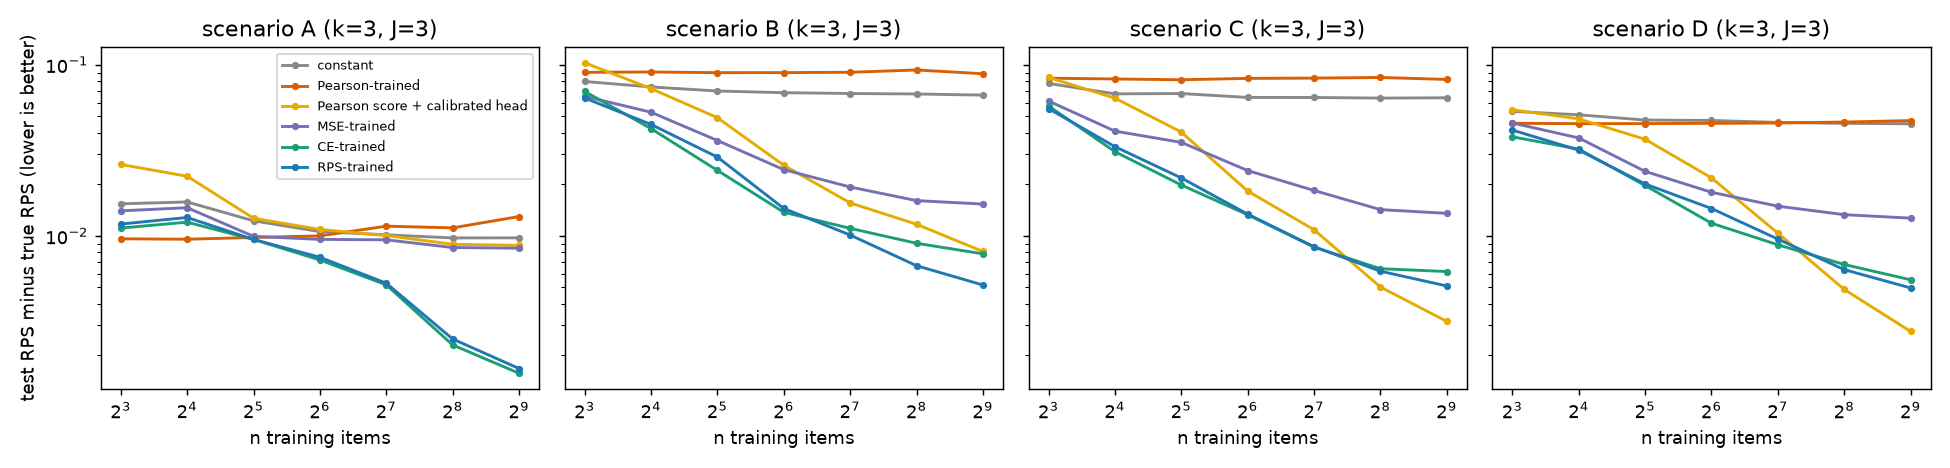
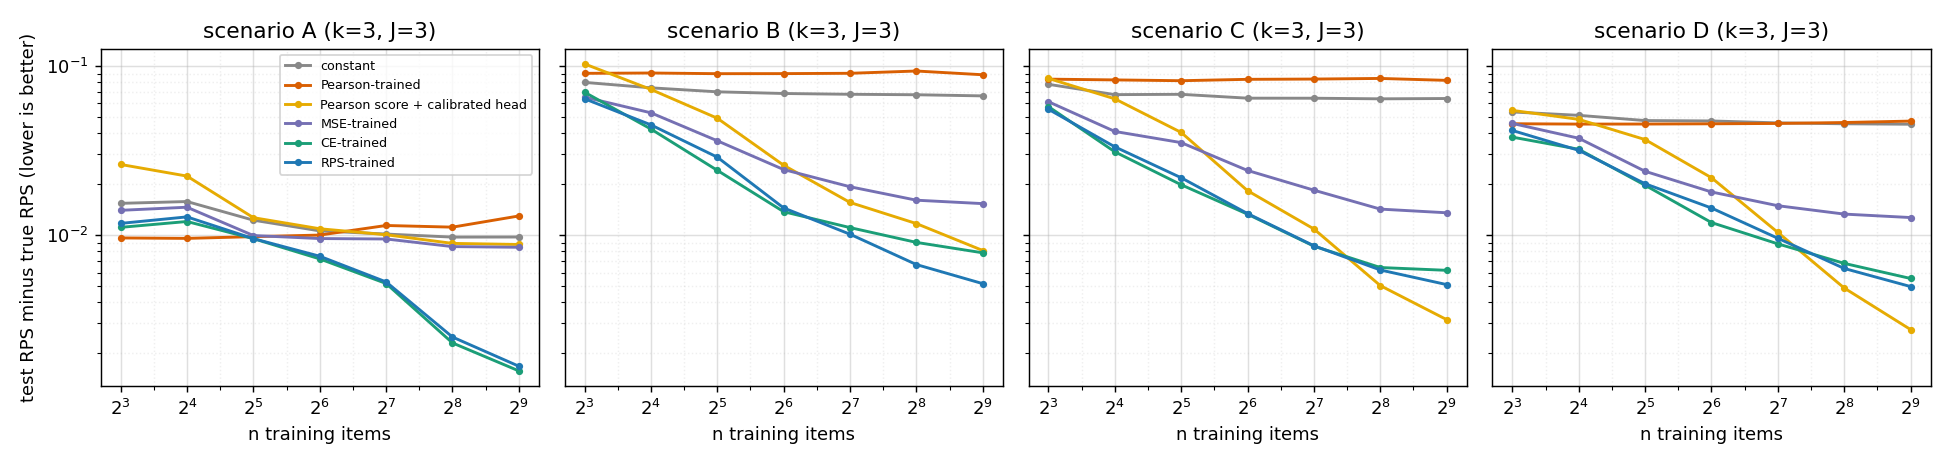
Enable explicit Matplotlib grids and show minor lines on base-two learning curves

diff --git a/experiments/18_when_does_ce_beat_correlation_notebook_page_math_and_sweep_start_21Nov2026/sweep/scripts/plot_A.py b/experiments/18_when_does_ce_beat_correlation_notebook_page_math_and_sweep_start_21Nov2026/sweep/scripts/plot_A.py
@@ -1,6 +1,7 @@
 """Exp 18 figure: test RPS excess (over the true-distribution RPS) vs n, sweep A, k=3, J=3, 4 scenarios. Date 11-21-2026."""
 import csv, sys, numpy as np
 import matplotlib; matplotlib.use("Agg"); import matplotlib.pyplot as plt
+from matplotlib.ticker import LogLocator, NullFormatter
 R = list(csv.DictReader(open(sys.argv[1])))
 arms = [("constant", "constant", "#888888"), ("pearson_raw", "Pearson-trained", "#d95f02"), ("pearson_head_tuned", "Pearson score + calibrated head", "#e6ab02"),
         ("mse_tuned", "MSE-trained", "#7570b3"), ("ce_tuned", "CE-trained", "#1b9e77"), ("rps_tuned", "RPS-trained", "#1f78b4")]
@@ -11,5 +12,10 @@ for a_, s in zip(ax, "ABCD"):
         y = [np.mean([float(r[f"{arm}.rps"]) - float(r["true_rps"]) for r in R if r["scenario"] == s and int(r["n"]) == n and r["k"] == "3" and r["J"] == "3"]) for n in ns]
         a_.plot(ns, y, marker="o", ms=3, lw=1.6, label=lab, color=col)
     a_.set_xscale("log", base=2); a_.set_yscale("log"); a_.set_title(f"scenario {s} (k=3, J=3)"); a_.set_xlabel("n training items")
+    a_.xaxis.set_minor_locator(LogLocator(base=2, subs=[np.sqrt(2)]))
+    a_.xaxis.set_minor_formatter(NullFormatter())
+    a_.set_axisbelow(True)
+    a_.grid(True, which="major", alpha=0.4)
+    a_.grid(True, which="minor", linestyle=":", alpha=0.2)
 ax[0].set_ylabel("test RPS minus true RPS (lower is better)"); ax[0].legend(fontsize=7)
 fig.tight_layout(); fig.savefig(sys.argv[2], dpi=130)

diff --git a/experiments/18_when_does_ce_beat_correlation_notebook_page_math_and_sweep_start_21Nov2026/reconcile_single_judge_selection_21Nov2026/mk_tables.py b/experiments/18_when_does_ce_beat_correlation_notebook_page_math_and_sweep_start_21Nov2026/reconcile_single_judge_selection_21Nov2026/mk_tables.py
@@ -19,7 +19,7 @@ for a_, (proto, unit) in zip(ax, [('C', 'training families'), ('M', 'training ta
     for pn in ['N15', 'N15s3', 'N15+H44', 'H44', 'H5']:
         cs = sorted([c for c in cells if c['pool'] == pn and c['proto'] == proto and c['k'] == 1], key=lambda c: c['n_train_units'])
         a_.plot([c['n_train_units'] for c in cs], [c['pearson_minus_ce'] for c in cs], marker='o', color=col[pn], label=pn)
-    a_.axhline(0, color='k', lw=.8); a_.set_xlabel(unit + (' (Codex splits)' if proto == 'C' else ' (real_n_sweep splits)')); a_.grid(alpha=.3)
+    a_.axhline(0, color='k', lw=.8); a_.set_xlabel(unit + (' (Codex splits)' if proto == 'C' else ' (real_n_sweep splits)')); a_.grid(True, alpha=.3)
 ax[0].set_ylabel('Pearson-selected minus CE-selected test RPS\n(positive = CE better), 1 rating per artifact')
 ax[0].legend(fontsize=8); fig.suptitle('Single-judge selection, same data: the sign follows the judge pool, not the split protocol (11-21-2026)', fontsize=10)
 fig.tight_layout(); fig.savefig('fig_reconcile.png', dpi=140)

diff --git a/experiments/19_small_data_moment_recovery_open_and_closed_judges_start_21Nov2026/human_judges/report.py b/experiments/19_small_data_moment_recovery_open_and_closed_judges_start_21Nov2026/human_judges/report.py
@@ -72,7 +72,7 @@ for axis,key in zip(axes,pool):
             axis.plot([lo,hi],[i+offset,i+offset],color=color,lw=2)
             axis.plot(d,i+offset,marker=symbol,color=color,label=('Training constant' if base=='constant' else 'Original forecast') if i==0 else None)
     axis.set_title(groups[key]);axis.set_xlabel("Held-out test squared moment loss\nCE-fitted minus reference")
-    axis.axvline(0,lw=1,color='#555');axis.grid(alpha=.23);axis.set_axisbelow(True)
+    axis.axvline(0,lw=1,color='#555');axis.grid(True, alpha=.23);axis.set_axisbelow(True)
 axes[0].set_yticks(range(len(metrics)),metric_names);axes[0].invert_yaxis();axes[0].legend(fontsize=8,title="Reference",loc='upper left')
 fig.suptitle('What did calibration with one rating per artifact add?',fontsize=14)
 fig.text(.5,.08,'Three training families, 12.1 ratings on average. Negative favors the cross-entropy (CE) fit. Raw ratings are divided by five.\n'

diff --git a/experiments/21_fresh_task_families_matched_open_closed_judges_start_21Nov2026/short_answers/plot.py b/experiments/21_fresh_task_families_matched_open_closed_judges_start_21Nov2026/short_answers/plot.py
@@ -5,7 +5,7 @@ from pathlib import Path
 import matplotlib
 matplotlib.use("Agg")
 import matplotlib.pyplot as plt
-from matplotlib.ticker import FormatStrFormatter
+from matplotlib.ticker import FormatStrFormatter, LogLocator, NullFormatter
 import numpy as np
 
 ROOT = Path(__file__).resolve().parent
@@ -39,6 +39,8 @@ for j, (judge, title) in enumerate((("qwen","Qwen3.5-9B (open weights)"),("claud
     bottom.set_xscale("log",base=2);bottom.set_xticks(x, labels=[str(k) for k in x])
     for ax in (top,bottom):
         ax.minorticks_on()
+        ax.xaxis.set_minor_locator(LogLocator(base=2, subs=[np.sqrt(2)]))
+        ax.xaxis.set_minor_formatter(NullFormatter())
         ax.grid(True,which="major",color="#d4d8d9",lw=.65)
         ax.grid(True,which="minor",color="#e6e8e8",lw=.35,alpha=.65)
         ax.set_axisbelow(True)

diff --git a/experiments/18_when_does_ce_beat_correlation_notebook_page_math_and_sweep_start_21Nov2026/conditional_shape_and_rating_budget/historical_rating_budget/report.py b/experiments/18_when_does_ce_beat_correlation_notebook_page_math_and_sweep_start_21Nov2026/conditional_shape_and_rating_budget/historical_rating_budget/report.py
@@ -24,7 +24,7 @@ axis.invert_yaxis()
 axis.set_ylabel("Training families and\nratings per artifact")
 axis.set_xlabel("Held-out normalized ranked probability score (RPS)\n"
                 "Pearson-selected judge minus cross-entropy-selected judge")
-axis.grid(axis="both", color="#ddddda", lw=0.65)
+axis.grid(True, axis="both", color="#ddddda", lw=0.65)
 axis.set_axisbelow(True)
 axis.set_title("Single-judge selection on historical human ratings", loc="left", fontweight="bold")
 for name in ("top", "right"):

diff --git a/experiments/19_small_data_moment_recovery_open_and_closed_judges_start_21Nov2026/theory_simulation/plot.py b/experiments/19_small_data_moment_recovery_open_and_closed_judges_start_21Nov2026/theory_simulation/plot.py
@@ -22,7 +22,7 @@ for ax, shape, title in zip(axes, ["low", "high"], ["True spread is low", "True 
     ax.set_title(title)
     ax.set_xlabel("Total training ratings across three types")
     ax.set_xticks([3,6,12,18,24,36])
-    ax.grid(axis="both", color="#dcdcd7", lw=0.65)
+    ax.grid(True, axis="both", color="#dcdcd7", lw=0.65)
     ax.set_axisbelow(True)
     for edge in ("top","right"):
         ax.spines[edge].set_visible(False)
